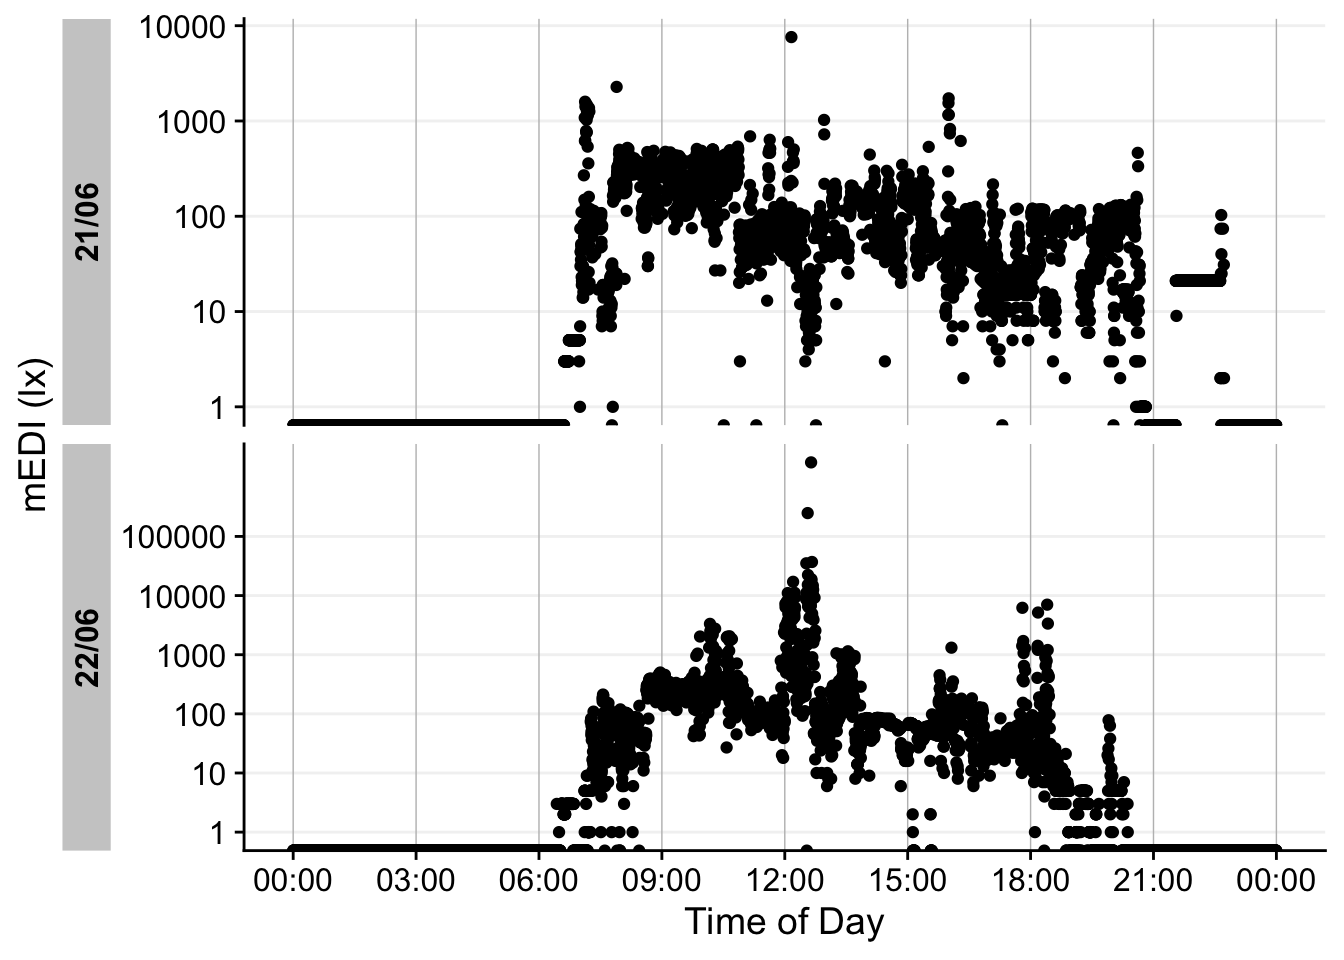
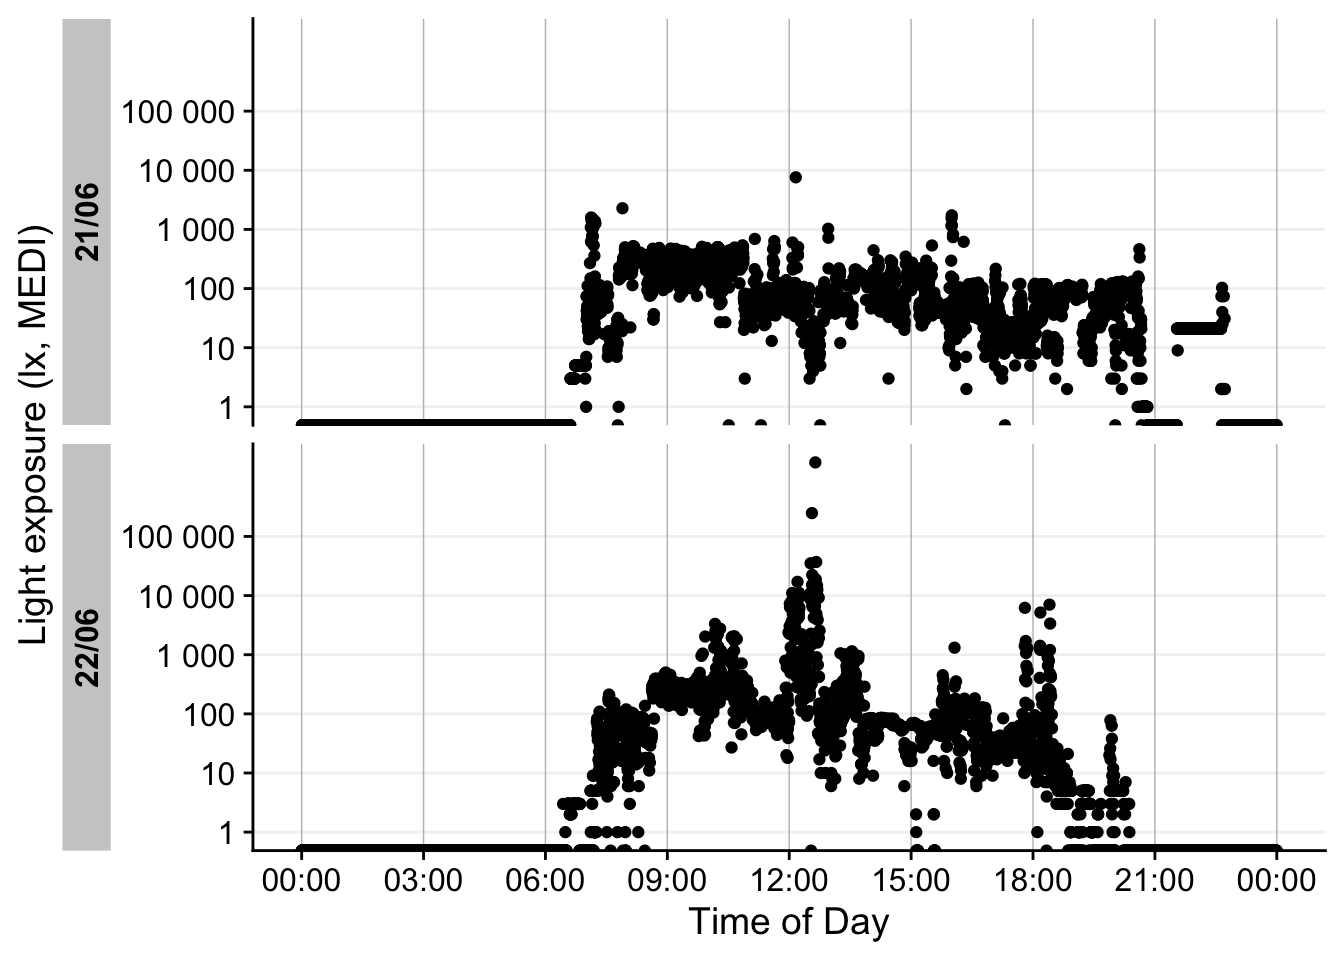
Changed the Reference-site structure.

diff --git a/README.md b/README.md
@@ -85,6 +85,7 @@ filename <- system.file("extdata/sample_data_LYS.csv", package = "LightLogR")
 dataset <- import.LYS(filename, tz = "Europe/Berlin")
 #> Successfully read in 11422 observations from LYS-file
 #> Timezone set is Europe/Berlin.
+#> The system timezone is Europe/Zagreb. Please correct if necessary!
 #> Start: 2023-06-21 00:00:12
 #> End: 2023-06-22 23:59:48
 #> Timespan: 2 days
@@ -95,8 +96,9 @@ dataset <- import.LYS(filename, tz = "Europe/Berlin")
 #> 3 17 secs          23 0.201% 
 #> 4 18 secs          16 0.140%
 
-dataset %>% select(Datetime, lux, kelvin, mEDI) %>%  slice(8000:8005) %>% 
+dataset %>% select(Datetime, lux, kelvin, MEDI) %>%  slice(8000:8005) %>% 
   flextable() %>% autofit()
+#> Adding missing grouping variables: `Id`
 ```
 
 <img src="man/figures/README-unnamed-chunk-3-1.png" width="50%" style="display: block; margin: auto;" />
@@ -106,7 +108,7 @@ dataset %>% select(Datetime, lux, kelvin, mEDI) %>%  slice(8000:8005) %>%
 Once imported, **LightLogR** allows you conveniently visualize the data.
 
 ``` r
-dataset %>% gg_day(y.axis = mEDI, y.axis.label = "mEDI (lx)")
+dataset %>% gg_day()
 #> Warning: Transformation introduced infinite values in continuous y-axis
 ```
 
@@ -119,7 +121,7 @@ options. You can also override most of the defaults, e.g., for different
 
 ``` r
 dataset %>% 
-  gg_day(y.axis = mEDI, col = mEDI >= 250, scales = "fixed", size = 0.5) + 
+  gg_day(col = MEDI >= 250, scales = "fixed", size = 0.5) + 
   scale_color_discrete(type = c("orange", "skyblue"))
 #> Scale for colour is already present.
 #> Adding another scale for colour, which will replace the existing scale.
